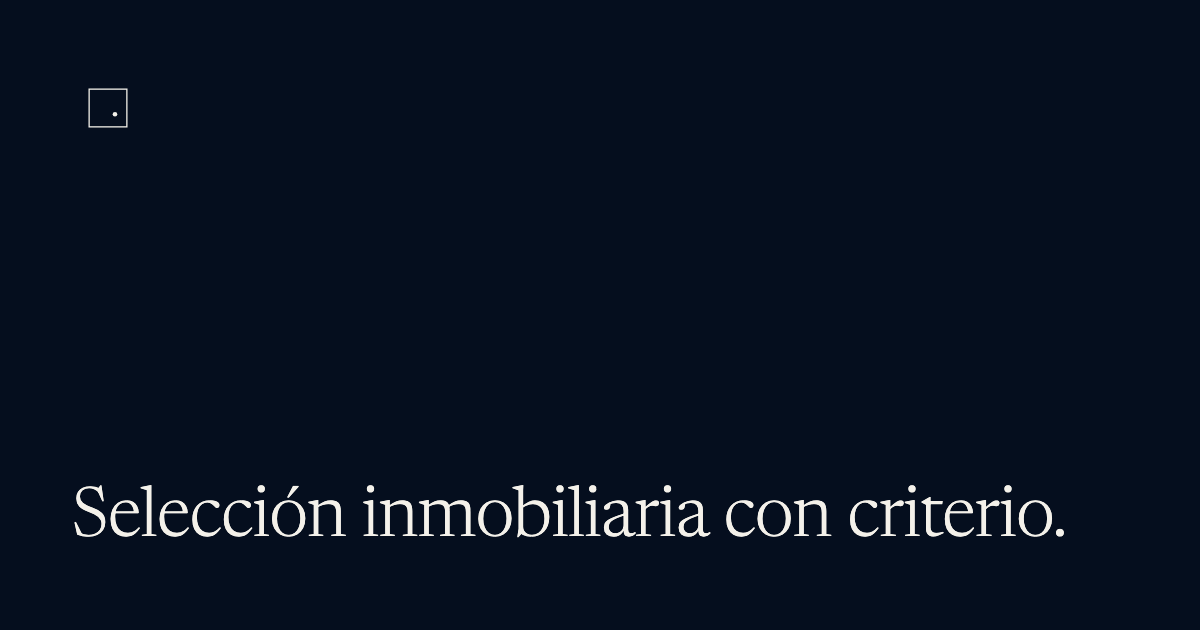
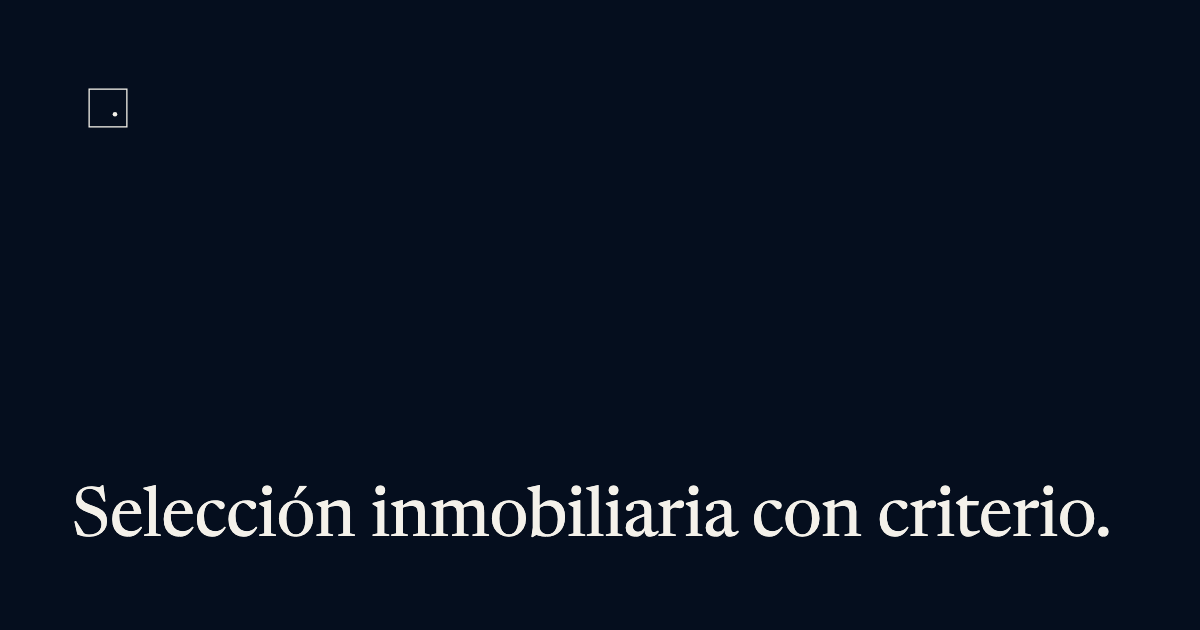
v1 · la tarjeta OG que faltaba y las medidas que no se declaraban
La seccion 3 del documento v1.0 pide una OG 1200x630 por pagina, navy con
isotipo y titular. Habia doce; La Peatonal 68 servia la foto MASTER de la
fachada: 2048x768 y 401 KB, relacion 2,67:1 contra la 1,91:1 que esperan
WhatsApp, Facebook y LinkedIn, asi que la tarjeta salia recortada por los
lados y pesaba trece veces lo que pesa una del sistema. Ya tiene la suya,
17 KB, en ES y EN.

Las doce que existian llevaban el titular en Newsreader 300, de antes del
cambio de escala. El documento fija el display en 400 y deja el 300 solo
para la italica de voz: las catorce rehechas en 400. La tarjeta es la
primera cara del sitio en cada enlace compartido y no puede ir con una
tipografia que el sitio ya no usa.

og:image:width, og:image:height y twitter:image estaban en las 47 notas de
Criterio y faltaban en las catorce paginas. Sin ellas, la primera vez que
se comparte un enlace la plataforma aun no ha descargado la imagen y la
tarjeta suele salir sin foto. Anadidas en base.py, que escribe trece de las
catorce, y a mano en las dos de Peatonal, que son paginas escritas a mano.

Medido despues del cambio: aceptacion 2 (los mismos dos del modulo 02),
links 123 paginas / 4.214 refs / 0 ausentes / 0 anclas rotas, sitemap al
dia con 108 URLs. Titulos y descripciones: 111 paginas, 0 repetidos; las
dos notas sin descripcion son los stubs retirados, noindex y fuera del
sitemap. El informe lleva la fila de metadatos en ACEPTACION-V1.md.
[…]

Changed region(s): [[0.0617, 0.754, 0.925, 0.8746]]

diff --git a/peatonal68/en/index.html b/peatonal68/en/index.html
@@ -15,8 +15,11 @@
 <meta property="og:title" content="Commercial Spaces for Rent · Plaza La Peatonal 68">
 <meta property="og:description" content="Units 22 and 23: 100 m² each on the second floor, from $1,800 a month. Unit 4: 102 m² for a restaurant on the ground floor, $3,060 a month. San Francisco, Panama City, with 60 parking spaces.">
 <meta property="og:url" content="https://www.spotonerealty.com/peatonal68/en/">
-<meta property="og:image" content="https://www.spotonerealty.com/peatonal68/img/fachada-master-2026-09-21.jpg">
+<meta property="og:image" content="https://www.spotonerealty.com/images/og/peatonal68-en.png">
+<meta property="og:image:width" content="1200">
+<meta property="og:image:height" content="630">
 <meta name="twitter:card" content="summary_large_image">
+<meta name="twitter:image" content="https://www.spotonerealty.com/images/og/peatonal68-en.png">
 <meta name="twitter:title" content="Commercial Spaces for Rent · Plaza La Peatonal 68">
 <meta name="twitter:description" content="Units 22 and 23: 100 m² each on the second floor, from $1,800 a month. Unit 4: 102 m² for a restaurant on the ground floor, $3,060 a month. San Francisco, Panama City, with 60 parking spaces.">
 <link rel="preload" as="font" type="font/woff2" href="/fonts/hanken.woff2" crossorigin>

diff --git a/peatonal68/index.html b/peatonal68/index.html
@@ -15,8 +15,11 @@
 <meta property="og:title" content="Locales comerciales en alquiler · Plaza La Peatonal 68">
 <meta property="og:description" content="Locales 22 y 23: 100 m² cada uno en el segundo piso, desde $1,800 al mes. Local 4: 102 m² para restaurante en planta baja, $3,060 al mes. San Francisco, con 60 estacionamientos.">
 <meta property="og:url" content="https://www.spotonerealty.com/peatonal68/">
-<meta property="og:image" content="https://www.spotonerealty.com/peatonal68/img/fachada-master-2026-09-21.jpg">
+<meta property="og:image" content="https://www.spotonerealty.com/images/og/peatonal68-es.png">
+<meta property="og:image:width" content="1200">
+<meta property="og:image:height" content="630">
 <meta name="twitter:card" content="summary_large_image">
+<meta name="twitter:image" content="https://www.spotonerealty.com/images/og/peatonal68-es.png">
 <meta name="twitter:title" content="Locales comerciales en alquiler · Plaza La Peatonal 68">
 <meta name="twitter:description" content="Locales 22 y 23: 100 m² cada uno en el segundo piso, desde $1,800 al mes. Local 4: 102 m² para restaurante en planta baja, $3,060 al mes. San Francisco, con 60 estacionamientos.">
 <link rel="preload" as="font" type="font/woff2" href="/fonts/hanken.woff2" crossorigin>

diff --git a/relocation/en/index.html b/relocation/en/index.html
@@ -16,7 +16,10 @@
 <meta property="og:description" content="Choosing the area and the home in Panama around your work, your journeys and your family. Area comparison and remote process.">
 <meta property="og:url" content="https://www.spotonerealty.com/relocation/en/">
 <meta property="og:image" content="https://www.spotonerealty.com/images/og/relocation-en.png">
+<meta property="og:image:width" content="1200">
+<meta property="og:image:height" content="630">
 <meta name="twitter:card" content="summary_large_image">
+<meta name="twitter:image" content="https://www.spotonerealty.com/images/og/relocation-en.png">
 <link rel="icon" href="/favicon.svg" type="image/svg+xml">
 <link rel="icon" href="/favicon-32.png" sizes="32x32" type="image/png">
 <link rel="apple-touch-icon" href="/apple-touch-icon.png">

diff --git a/que-hago/index.html b/que-hago/index.html
@@ -16,7 +16,10 @@
 <meta property="og:description" content="Captación y posicionamiento, representación en compra y alquiler, inteligencia de mercado y diagnóstico de situación, en Panamá.">
 <meta property="og:url" content="https://www.spotonerealty.com/que-hago/">
 <meta property="og:image" content="https://www.spotonerealty.com/images/og/quehago-es.png">
+<meta property="og:image:width" content="1200">
+<meta property="og:image:height" content="630">
 <meta name="twitter:card" content="summary_large_image">
+<meta name="twitter:image" content="https://www.spotonerealty.com/images/og/quehago-es.png">
 <link rel="icon" href="/favicon.svg" type="image/svg+xml">
 <link rel="icon" href="/favicon-32.png" sizes="32x32" type="image/png">
 <link rel="apple-touch-icon" href="/apple-touch-icon.png">

diff --git a/relocation/index.html b/relocation/index.html
@@ -16,7 +16,10 @@
 <meta property="og:description" content="Elegir zona y vivienda en Panamá según tu trabajo, tus recorridos y tu familia. Comparación de zonas y proceso remoto.">
 <meta property="og:url" content="https://www.spotonerealty.com/relocation/">
 <meta property="og:image" content="https://www.spotonerealty.com/images/og/relocation-es.png">
+<meta property="og:image:width" content="1200">
+<meta property="og:image:height" content="630">
 <meta name="twitter:card" content="summary_large_image">
+<meta name="twitter:image" content="https://www.spotonerealty.com/images/og/relocation-es.png">
 <link rel="icon" href="/favicon.svg" type="image/svg+xml">
 <link rel="icon" href="/favicon-32.png" sizes="32x32" type="image/png">
 <link rel="apple-touch-icon" href="/apple-touch-icon.png">

diff --git a/services/index.html b/services/index.html
@@ -16,7 +16,10 @@
 <meta property="og:description" content="Taking a property to market, representation in buying and renting, market intelligence and situation assessment, in Panama.">
 <meta property="og:url" content="https://www.spotonerealty.com/services/">
 <meta property="og:image" content="https://www.spotonerealty.com/images/og/quehago-en.png">
+<meta property="og:image:width" content="1200">
+<meta property="og:image:height" content="630">
 <meta name="twitter:card" content="summary_large_image">
+<meta name="twitter:image" content="https://www.spotonerealty.com/images/og/quehago-en.png">
 <link rel="icon" href="/favicon.svg" type="image/svg+xml">
 <link rel="icon" href="/favicon-32.png" sizes="32x32" type="image/png">
 <link rel="apple-touch-icon" href="/apple-touch-icon.png">

diff --git a/contacto/index.html b/contacto/index.html
@@ -16,7 +16,10 @@
 <meta property="og:description" content="Cuéntame qué necesitas, en qué zona y para cuándo. Con esos tres datos comparo opciones antes de la primera llamada.">
 <meta property="og:url" content="https://www.spotonerealty.com/contacto/">
 <meta property="og:image" content="https://www.spotonerealty.com/images/og/contacto-es.png">
+<meta property="og:image:width" content="1200">
+<meta property="og:image:height" content="630">
 <meta name="twitter:card" content="summary_large_image">
+<meta name="twitter:image" content="https://www.spotonerealty.com/images/og/contacto-es.png">
 <link rel="icon" href="/favicon.svg" type="image/svg+xml">
 <link rel="icon" href="/favicon-32.png" sizes="32x32" type="image/png">
 <link rel="apple-touch-icon" href="/apple-touch-icon.png">

diff --git a/index-en.html b/index-en.html
@@ -16,7 +16,10 @@
 <meta property="og:description" content="Real estate advisory and relocation in Panama. I help you buy, sell or rent with the market reviewed before you decide.">
 <meta property="og:url" content="https://www.spotonerealty.com/index-en.html">
 <meta property="og:image" content="https://www.spotonerealty.com/images/og/inicio-en.png">
+<meta property="og:image:width" content="1200">
+<meta property="og:image:height" content="630">
 <meta name="twitter:card" content="summary_large_image">
+<meta name="twitter:image" content="https://www.spotonerealty.com/images/og/inicio-en.png">
 <link rel="icon" href="/favicon.svg" type="image/svg+xml">
 <link rel="icon" href="/favicon-32.png" sizes="32x32" type="image/png">
 <link rel="apple-touch-icon" href="/apple-touch-icon.png">

diff --git a/contact/index.html b/contact/index.html
@@ -16,7 +16,10 @@
 <meta property="og:description" content="Tell me what you need, in which area and by when. With those three details I compare options before our first call.">
 <meta property="og:url" content="https://www.spotonerealty.com/contact/">
 <meta property="og:image" content="https://www.spotonerealty.com/images/og/contacto-en.png">
+<meta property="og:image:width" content="1200">
+<meta property="og:image:height" content="630">
 <meta name="twitter:card" content="summary_large_image">
+<meta name="twitter:image" content="https://www.spotonerealty.com/images/og/contacto-en.png">
 <link rel="icon" href="/favicon.svg" type="image/svg+xml">
 <link rel="icon" href="/favicon-32.png" sizes="32x32" type="image/png">
 <link rel="apple-touch-icon" href="/apple-touch-icon.png">

diff --git a/index.html b/index.html
@@ -16,7 +16,10 @@
 <meta property="og:description" content="Asesoría inmobiliaria y relocation en Panamá. Te ayudo a comprar, vender o alquilar con el mercado revisado antes de decidir.">
 <meta property="og:url" content="https://www.spotonerealty.com/">
 <meta property="og:image" content="https://www.spotonerealty.com/images/og/inicio-es.png">
+<meta property="og:image:width" content="1200">
+<meta property="og:image:height" content="630">
 <meta name="twitter:card" content="summary_large_image">
+<meta name="twitter:image" content="https://www.spotonerealty.com/images/og/inicio-es.png">
 <link rel="icon" href="/favicon.svg" type="image/svg+xml">
 <link rel="icon" href="/favicon-32.png" sizes="32x32" type="image/png">
 <link rel="apple-touch-icon" href="/apple-touch-icon.png">

diff --git a/dario/index.html b/dario/index.html
@@ -16,7 +16,10 @@
 <meta property="og:description" content="Corredor de bienes raíces en Panamá. Trabajas directamente conmigo de principio a fin, con cada dato y su fuente.">
 <meta property="og:url" content="https://www.spotonerealty.com/dario/">
 <meta property="og:image" content="https://www.spotonerealty.com/images/og/dario-es.png">
+<meta property="og:image:width" content="1200">
+<meta property="og:image:height" content="630">
 <meta name="twitter:card" content="summary_large_image">
+<meta name="twitter:image" content="https://www.spotonerealty.com/images/og/dario-es.png">
 <link rel="icon" href="/favicon.svg" type="image/svg+xml">
 <link rel="icon" href="/favicon-32.png" sizes="32x32" type="image/png">
 <link rel="apple-touch-icon" href="/apple-touch-icon.png">

diff --git a/dario/en/index.html b/dario/en/index.html
@@ -16,7 +16,10 @@
 <meta property="og:description" content="Real estate broker in Panama. You work directly with me from start to finish, with every figure and its source.">
 <meta property="og:url" content="https://www.spotonerealty.com/dario/en/">
 <meta property="og:image" content="https://www.spotonerealty.com/images/og/dario-en.png">
+<meta property="og:image:width" content="1200">
+<meta property="og:image:height" content="630">
 <meta name="twitter:card" content="summary_large_image">
+<meta name="twitter:image" content="https://www.spotonerealty.com/images/og/dario-en.png">
 <link rel="icon" href="/favicon.svg" type="image/svg+xml">
 <link rel="icon" href="/favicon-32.png" sizes="32x32" type="image/png">
 <link rel="apple-touch-icon" href="/apple-touch-icon.png">
